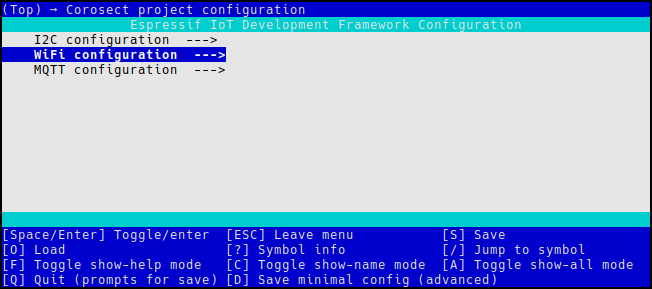
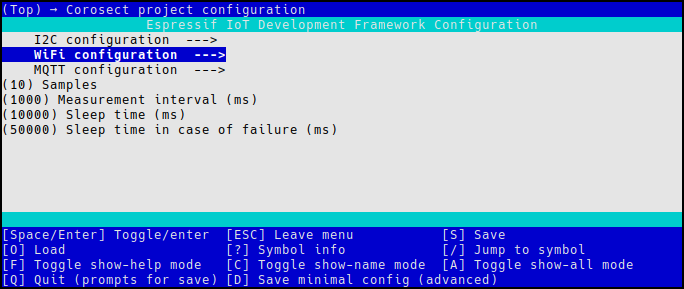
Päivitetty uudet koodit

Changed region(s): [[0.0, 0.0, 0.7975, 0.4671], [0.0, 0.7785, 0.9816, 0.9965], [0.0, 0.0, 0.0613, 0.0623]]

diff --git a/Team_2_ESP32/no-arduino/main/main.c b/Team_2_ESP32/no-arduino/main/main.c
@@ -22,17 +22,30 @@
 #define I2C_MASTER_SCL_IO 7
 
  RTC maximum SCL frequency is 1MHz 
-#define I2C_MASTER_FREQ_HZ 1000000
+#define I2C_MASTER_FREQ_HZ 1000000*/
 
- Address for Click Co2 sensor */
+/* Address for Click Co2 sensor */
 #define I2C_CO2_ADDR CONFIG_I2C_CO2_ADDR
+
+/* Number of measurements every cycle */
+#define SAMPLES CONFIG_SAMPLES
+
+/* Time between each measurement (ms). Should be >= 1000 */
+#define MEASURE_INTERVAL CONFIG_MEASURE_INTERVAL
+
+/* Sleep time between succesful measurements (ms) */
+#define SLEEP_MS CONFIG_SLEEP_MS
+
+/* Sleep time in case of a failure (ms) */
+#define ERR_SLEEP_MS CONFIG_ERR_SLEEP_MS
+
 
 
 static const char* TAG = "espi";
 
 
-/* MQTT client used to send messages */
-esp_mqtt_client_handle_t mqtt_client;
+/* MQTT client used to send messages  
+esp_mqtt_client_handle_t mqtt_client;*/
 
 static inline esp_err_t disable_crc(){
     esp_err_t ret = i2c_write(I2C_CO2_ADDR, 0x37, 0x68);
@@ -77,9 +90,17 @@ static inline esp_err_t sensor_sleep(){
     return ret;
 }
 
-static void configure_led(){
+static inline esp_err_t sensor_wake(){
+    esp_err_t ret = i2c_wakeup_sensor(I2C_CO2_ADDR);
+    /* Sensor needs time to wake up, 50ms seems reliable */
+    vTaskDelay(50 / portTICK_PERIOD_MS); 
+    return ret;
+
+}
+
+/*static void configure_led(){
     gpio_config_t conf ={
-        .pin_bit_mask = 0x100, /* Bit mask for GPIO 8 */
+        .pin_bit_mask = 0x100,  Bit mask for GPIO 8 
         .mode = GPIO_MODE_OUTPUT,
         .pull_up_en = GPIO_PULLUP_DISABLE,
         .pull_down_en = GPIO_PULLDOWN_ENABLE,
@@ -88,14 +109,17 @@ static void configure_led(){
 
     gpio_config(&conf);
 
-}
+}*/
 
 void initialize_i2c(){
-    uint8_t data[2]={0};
+    uint8_t data[2]={-1};
 
     int test = i2c_master_init();
     puts("i2c init");
     printf("driver install %s\n",esp_err_to_name(test));
+
+    test = sensor_wake();
+    printf("sensor wake %s\n",esp_err_to_name(test));
 
     test = disable_crc();
     printf("disable crc %s\n",esp_err_to_name(test));
@@ -104,25 +128,17 @@ void initialize_i2c(){
     printf("set binary gas %s\n\n",esp_err_to_name(test));
 
     test = self_test(data);
-    printf("selftest %s\n",esp_err_to_name(test));
+    if((data[0] << 8 | data[1]) != 0){ ESP_LOGE(TAG,"Sensor selftest failure");};
+    printf("selftest sent %s\n",esp_err_to_name(test));
     printf("selftest result: %d %d\n",data[0], data[1]);
 }
 
 
 void go_to_sleep(int ms){
+    sensor_sleep();
     esp_sleep_enable_timer_wakeup(ms*1000);
     esp_deep_sleep_start();
-
 }
-
-/*void sendResult(uint16_t val, char *topic){
-    TODO: Replace this with a static buffer at some point
-    int len = snprintf(NULL,0,"%d",val); 
-    char* sResult = (char*)malloc((len+1)*sizeof(char));
-    snprintf(sResult, len+1, "%d", val);
-
-    esp_mqtt_client_publish(mqtt_client, topic, sResult, len, 0, 0);
-}*/
 
 void app_main(void){
     uint8_t data[4]={0};
@@ -130,25 +146,39 @@ void app_main(void){
     uint16_t temp_result;
     int test;
 
+    nvs_flash_init();
+    test = wifi_init_sta();
+    /* wifi_init_sta() will return 0 on success
+     * otherwise connecting failed */
+    if(test != 0){
+        ESP_LOGI(TAG,"Wifi connection failed, sleeping");
+        go_to_sleep(ERR_SLEEP_MS);
+    }
+
+    ESP_LOGI(TAG,"Got wifi connection, starting MQTT");
+    mqtt_app_start();
     initialize_i2c();
     test = measure_gas(data);
     printf("Measure: %s\n",esp_err_to_name(test));
     printf("co2 Data: %d\n",(data[0]<<8|data[1]));
     printf("temp data: %d\n\n",(data[2]<<8|data[3]));
-    nvs_flash_init();
-    wifi_init_sta();
-    mqtt_app_start();
+
 
     while(1){
-        measure_gas(data);
-        co2_result = data[0] << 8 | data[1];
-        temp_result = data[2] << 8 | data[3];
-        mqtt_send_result(co2_result, "co2");
-        mqtt_send_result(temp_result, "temp");
-        printf("co2: %d \t temp: %d\n",(data[0]<<8|data[1]), (data[2]<<8|data[3]));
-        vTaskDelay(1000 / portTICK_PERIOD_MS);
+        for(int i = 0; i < SAMPLES; i++){
+            measure_gas(data);
+            co2_result = data[0] << 8 | data[1];
+            temp_result = data[2] << 8 | data[3];
+            mqtt_send_result(co2_result, "co2");
+            mqtt_send_result(temp_result, "temp");
+            printf("co2: %d \t temp: %d\n",(data[0]<<8|data[1]), (data[2]<<8|data[3]));
+            /* Measure should only be called once every second */
+            vTaskDelay(MEASURE_INTERVAL / portTICK_PERIOD_MS);
+        }
+
+        ESP_LOGI(TAG,"Measured, going to sleep");
+        go_to_sleep(SLEEP_MS);
+
 
     }
-
 }
-

diff --git a/Team_2_ESP32/no-arduino/main/esp32_i2c.c b/Team_2_ESP32/no-arduino/main/esp32_i2c.c
@@ -46,7 +46,8 @@ esp_err_t i2c_master_init(void){
 
 }
 
-/* Write 16 bit command to i2c slave */
+/* Write 16 bit command to i2c slave 
+ * TODO: ugly solution. Make into a generic write function that can handle n length commands and args*/
 esp_err_t i2c_write(uint8_t addr, uint8_t cmdh, uint8_t cmdl){
     esp_err_t ret;
     i2c_cmd_handle_t cmd = i2c_cmd_link_create(); 
@@ -62,7 +63,8 @@ esp_err_t i2c_write(uint8_t addr, uint8_t cmdh, uint8_t cmdl){
     return ret;
 }
 
-/* Write 16 bit command to i2c slave with 16 bit argument */
+/* Write 16 bit command to i2c slave with 16 bit argument
+ * TODO: ugly solution. Make into a generic write function that can handle n length commands and args*/
 esp_err_t i2c_write_with_arg(uint8_t addr, uint8_t cmdh, uint8_t cmdl, uint8_t argh, uint8_t argl){
     esp_err_t ret;
     i2c_cmd_handle_t cmd = i2c_cmd_link_create(); 
@@ -76,6 +78,20 @@ esp_err_t i2c_write_with_arg(uint8_t addr, uint8_t cmdh, uint8_t cmdl, uint8_t a
     ret = i2c_master_cmd_begin(0, cmd, 1000/portTICK_PERIOD_MS);
     i2c_cmd_link_delete(cmd);
 
+    return ret;
+
+}
+
+/* Sends wakeup command (address + write bit) to given slave */
+esp_err_t i2c_wakeup_sensor(uint8_t addr){
+    esp_err_t ret;
+    i2c_cmd_handle_t cmd = i2c_cmd_link_create();
+    i2c_master_start(cmd);
+    i2c_master_write_byte(cmd, addr << 1 | 0x0, 0x0);
+    i2c_master_stop(cmd);
+    ret = i2c_master_cmd_begin(0,cmd,1000/portTICK_PERIOD_MS);
+    i2c_cmd_link_delete(cmd);
+    
     return ret;
 
 }
@@ -101,13 +117,10 @@ esp_err_t i2c_read(uint8_t addr, uint8_t *data, size_t len){
     i2c_cmd_handle_t cmd = i2c_cmd_link_create();
     i2c_master_start(cmd);
     i2c_master_write_byte(cmd, addr << 1 | 0x1, 0x1);
-    i2c_master_read(cmd, data, len, 0x0);
-    i2c_master_write_byte(cmd, addr<<1 | 0x1, 0x0); /* Seems necessary, otherwise everything past first byte read will be 255 */
+    i2c_master_read(cmd, data, len, 0x2); /* 0x2 write NACK after last byte */
     i2c_master_stop(cmd);
     ret = i2c_master_cmd_begin(0, cmd, 1000 / portTICK_PERIOD_MS);
     i2c_cmd_link_delete(cmd);
-
     return ret;
-
 }
 

diff --git a/Team_2_ESP32/no-arduino/main/wifi_mqtt.c b/Team_2_ESP32/no-arduino/main/wifi_mqtt.c
@@ -141,7 +141,7 @@ void mqtt_send_result(uint16_t val, char *topic){
 }
 
 
-void wifi_init_sta()
+esp_err_t wifi_init_sta()
 {
     s_wifi_event_group = xEventGroupCreate();
     ESP_ERROR_CHECK(esp_netif_init());
@@ -184,9 +184,12 @@ void wifi_init_sta()
 
     if(bits & WIFI_CONNECTED_BIT){
         ESP_LOGI(TAG,"connected to %s",ESP_WIFI_SSID);
+        return 0;
     }else if(bits & WIFI_FAIL_BIT){
         ESP_LOGI(TAG,"failed to connect to %s",ESP_WIFI_SSID);
+        return -1;
     }else{
         ESP_LOGE(TAG,"this shouldn't happen");
+        return -1;
     }
 }

diff --git a/Team_2_ESP32/no-arduino/main/esp32_i2c.h b/Team_2_ESP32/no-arduino/main/esp32_i2c.h
@@ -40,4 +40,12 @@ esp_err_t i2c_write_with_arg(uint8_t addr, uint8_t cmdh, uint8_t cmdl, uint8_t a
  */
 esp_err_t i2c_read(uint8_t addr, uint8_t *data, size_t len);
 
+
+/* Send wakeup command to STC31 sensor 
+ * addr: address of device to wake up
+ * NOTE: does NOT wait for sensor to wake up
+ *
+ * returns 0 on success */
+esp_err_t i2c_wakeup_sensor(uint8_t addr);
+
 #endif // _ESP32_I2C_H

diff --git a/Team_2_ESP32/no-arduino/main/wifi_mqtt.h b/Team_2_ESP32/no-arduino/main/wifi_mqtt.h
@@ -3,8 +3,12 @@
 
 #include "mqtt_client.h"
 
-/* Starts WiFi in station mode */
-void wifi_init_sta(void);
+/* Starts WiFi in station mode 
+ * Returns: 
+ * ESP_OK (0) on success
+ * ESP_FAIL (-1) on failure
+ */
+esp_err_t wifi_init_sta(void);
 
 /* starts MQTT connection */
 void mqtt_app_start(void);
